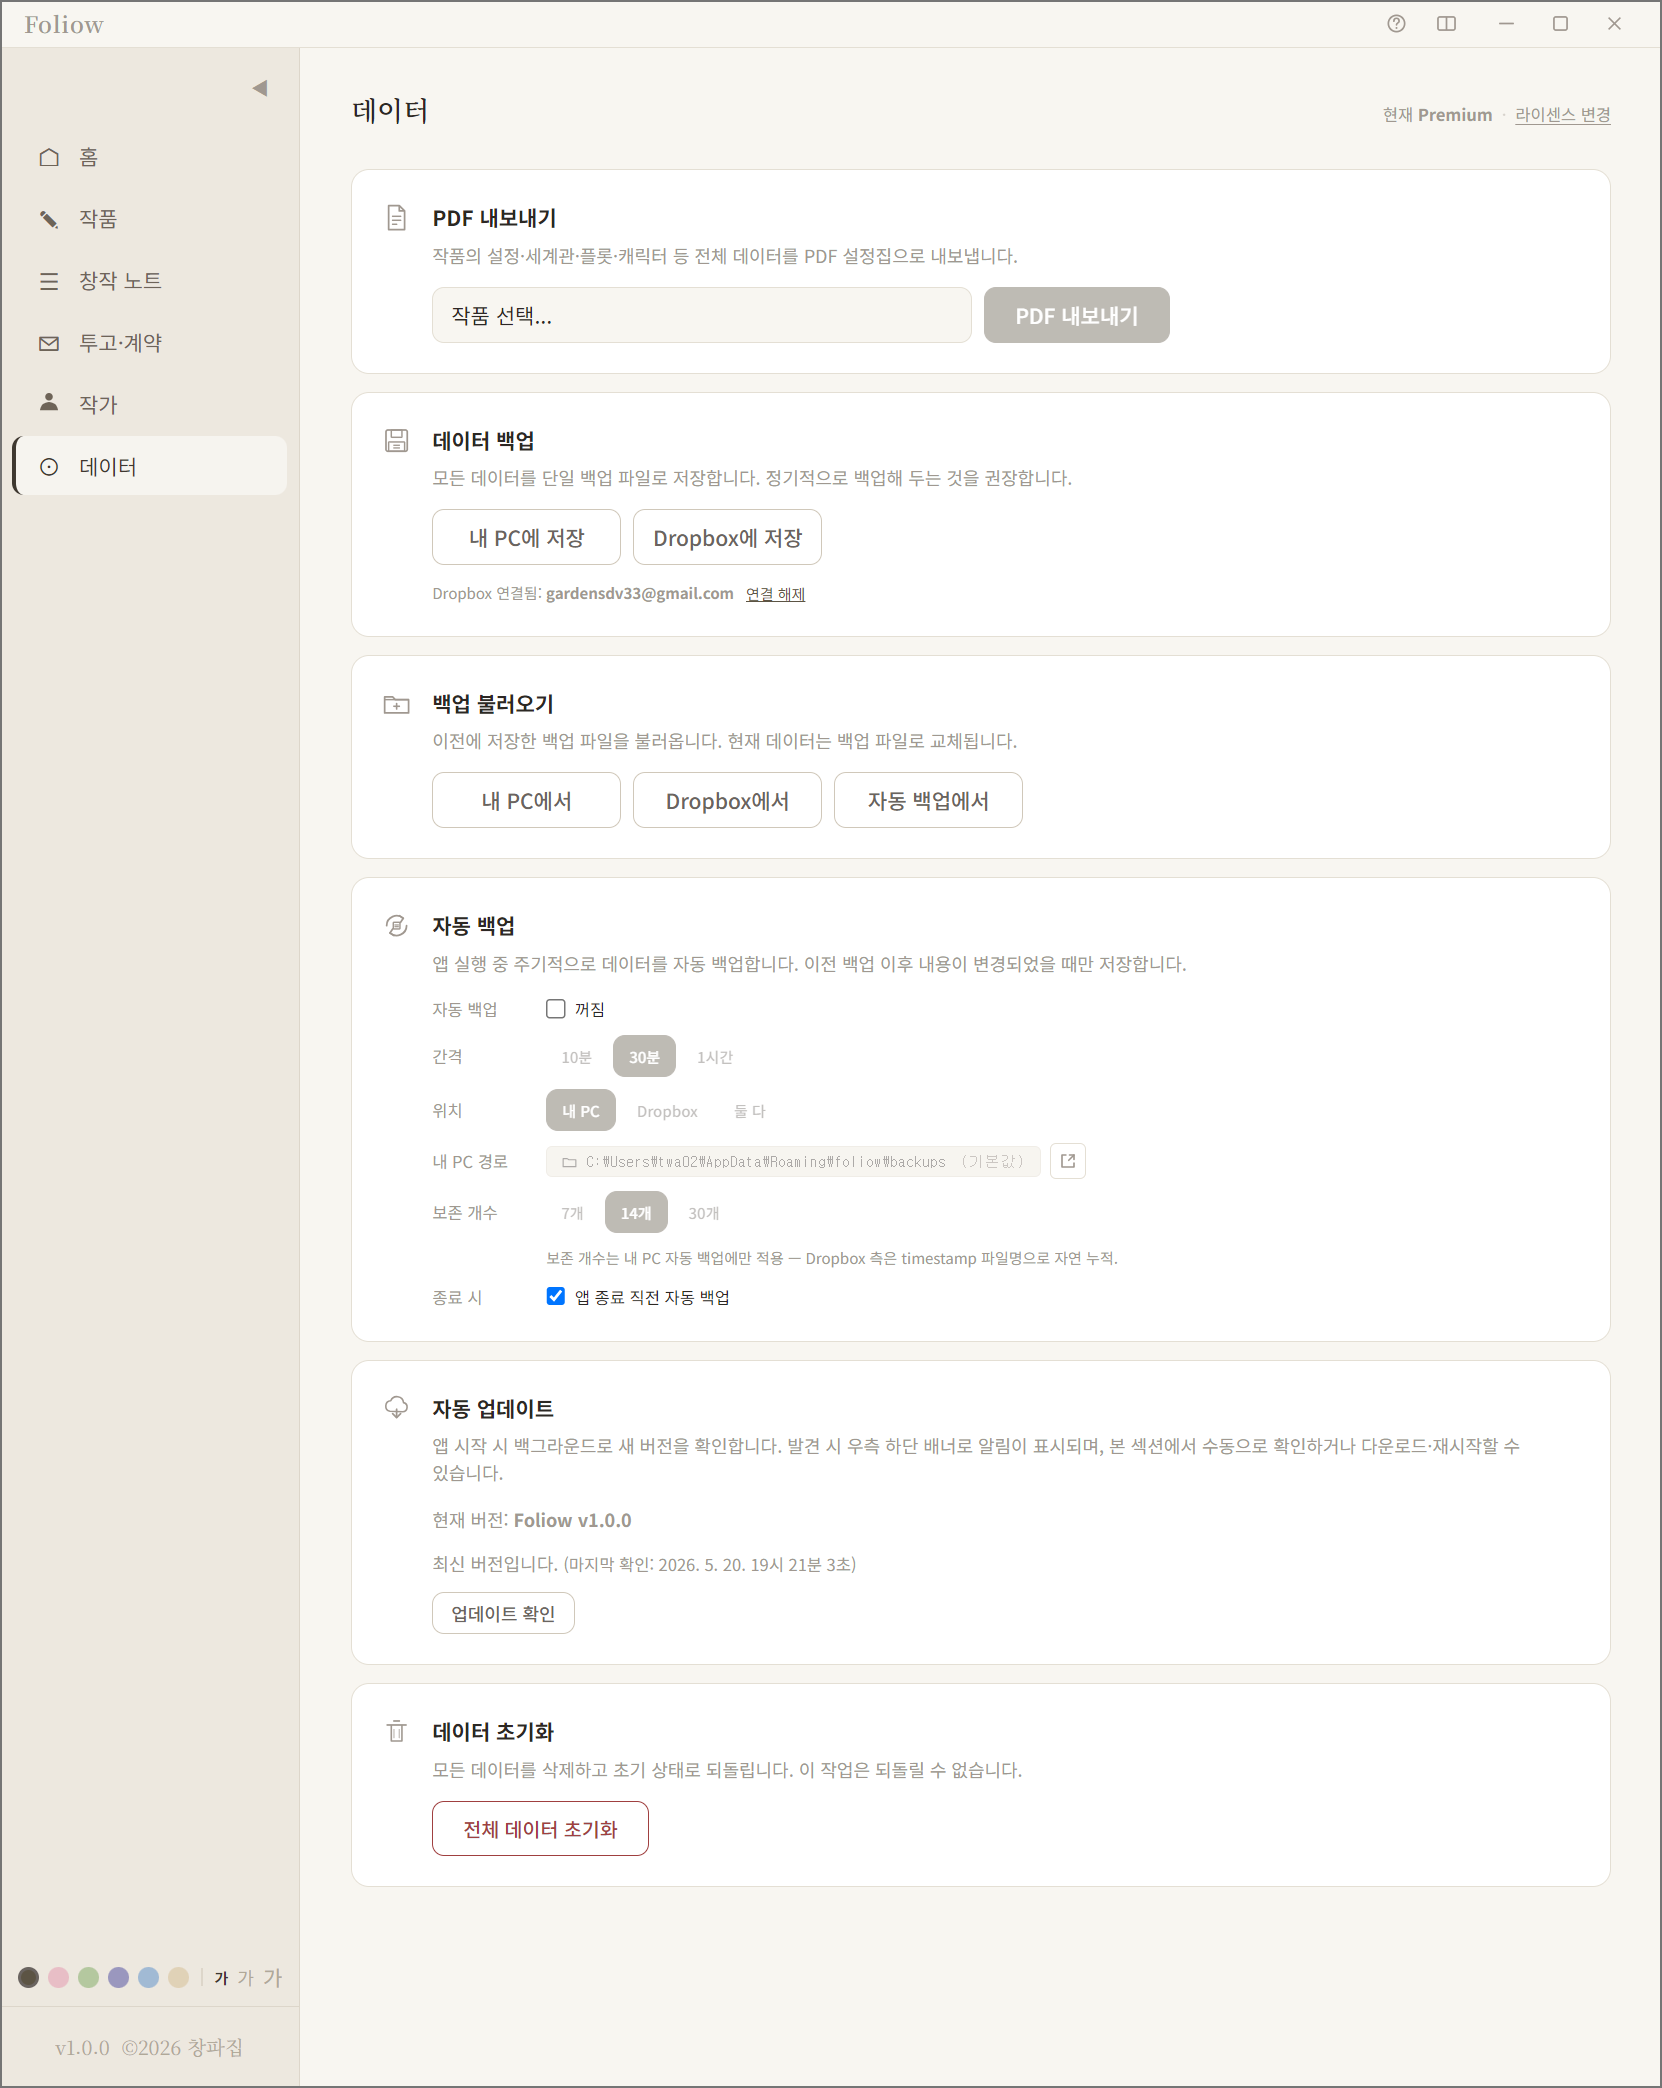
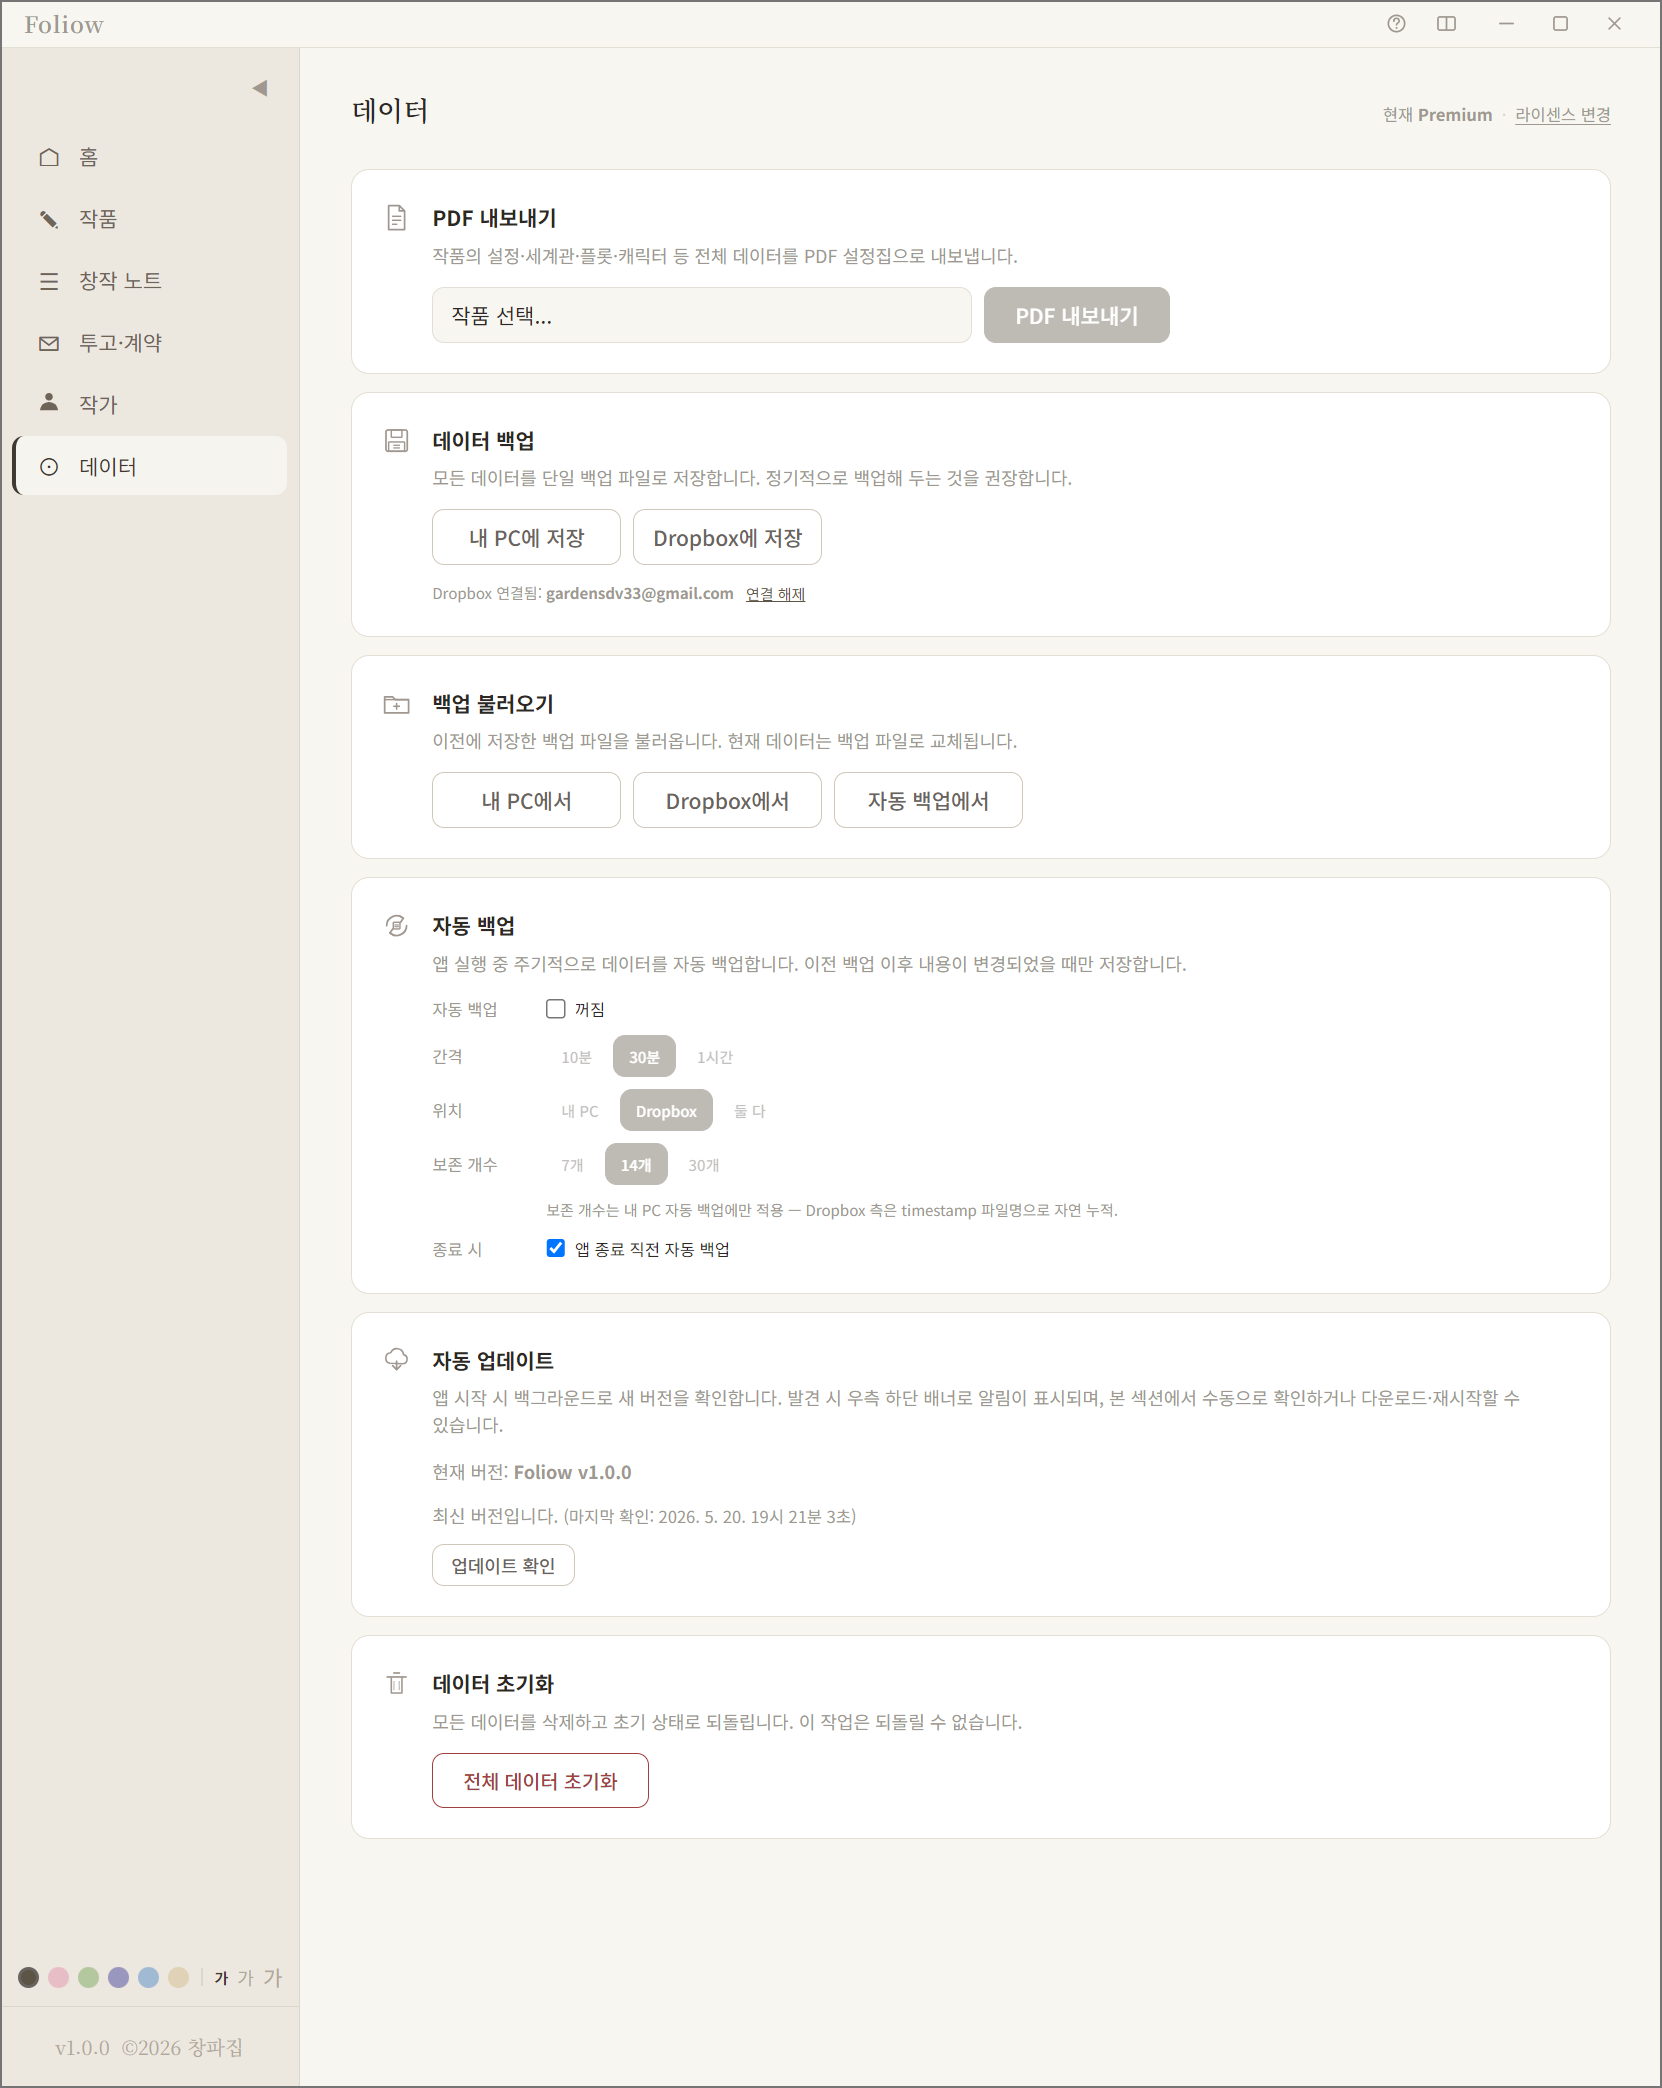
Expand Screens section and link Foliow's Tumblbug project
Adds 4 more screenshots (character relationship map, skill comparison,
per-character growth tracker, foreshadowing list) and updates the
existing data management shot. Orders the Screens so Dropbox reviewers
end on the data management view (the page that actually contains the
Dropbox integration UI). Availability now links to the Foliow
crowdfunding project page in addition to the Tumblbug platform link.

diff --git a/index.html b/index.html
@@ -161,8 +161,24 @@
         <figcaption>Plot timeline — chapters, episodes, events, and scenes with a per-scene detail panel.</figcaption>
       </figure>
       <figure class="screen">
-        <img src="screenshot-data.png" alt="Foliow data management page, showing local backup, restore, and the optional Dropbox connection.">
-        <figcaption>Data management — local backup, restore, and the optional Dropbox connection.</figcaption>
+        <img src="screenshot-relationshipmap.png" alt="Foliow character relationship map, showing characters arranged by role with relationship lines between them.">
+        <figcaption>Character relationship map — characters arranged by role with editable relationship lines.</figcaption>
+      </figure>
+      <figure class="screen">
+        <img src="screenshot-skillchart.png" alt="Foliow character skill comparison chart, showing how multiple characters' abilities evolve along the story timeline.">
+        <figcaption>Character skill comparison — how multiple characters' abilities evolve along the story timeline.</figcaption>
+      </figure>
+      <figure class="screen">
+        <img src="screenshot-data-characterchart.png" alt="Foliow per-character growth tracker, showing a stat sheet with a timeline chart and a relationship table.">
+        <figcaption>Per-character growth tracker — stat sheet with timeline chart and relationships table.</figcaption>
+      </figure>
+      <figure class="screen">
+        <img src="screenshot-forshadowing.png" alt="Foliow foreshadowing list, pairing each foreshadowing's setup and payoff scenes with a story-arc visualization.">
+        <figcaption>Foreshadowing list — setup and payoff scenes paired with a story-arc visualization.</figcaption>
+      </figure>
+      <figure class="screen">
+        <img src="screenshot-data.png" alt="Foliow data management page, showing PDF export, local and Dropbox backup, restore, auto-backup, and update controls.">
+        <figcaption>Data management — local and Dropbox backup, restore, auto-backup, and update controls.</figcaption>
       </figure>
     </section>
 
@@ -170,9 +186,9 @@
       <h2>Availability</h2>
       <div class="availability">
         <p>
-          Foliow is currently distributed to backers through a crowdfunding
-          campaign on
-          <a href="https://tumblbug.com/" target="_blank" rel="noopener">Tumblbug</a>,
+          Foliow is currently distributed to backers through its
+          <a href="https://airbridge.tumblbug.com/pu6xj17" target="_blank" rel="noopener">crowdfunding campaign</a>
+          on <a href="https://tumblbug.com/" target="_blank" rel="noopener">Tumblbug</a>,
           a Korean crowdfunding platform. Builds are provided for Windows and
           macOS, with offline license verification.
         </p>